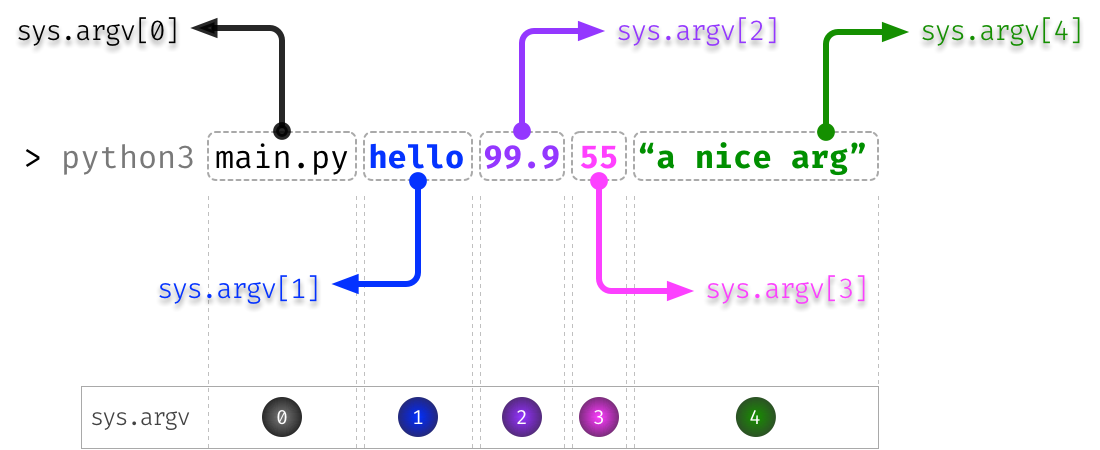
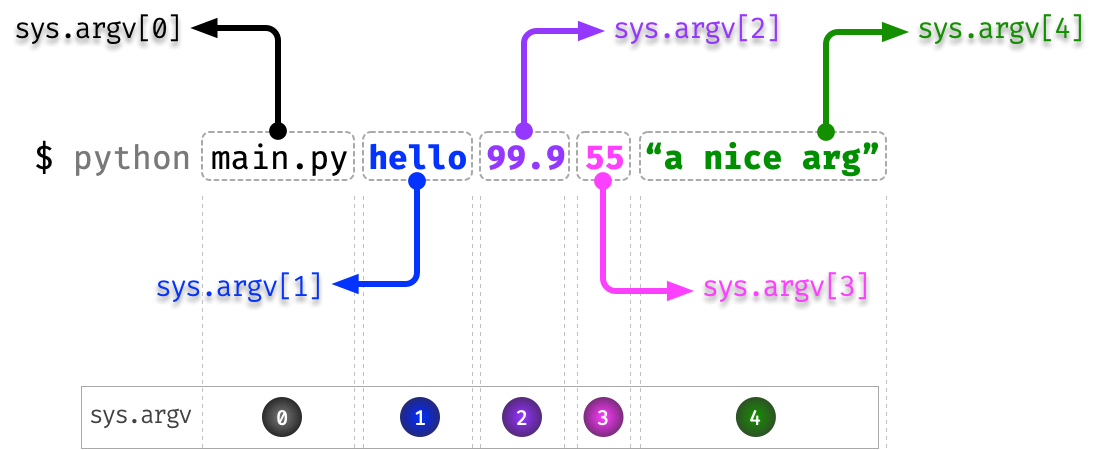
Add minor fixes

diff --git a/core/modularity/modules.rst b/core/modularity/modules.rst
@@ -234,7 +234,7 @@ La estructura que suele tener este *programa principal* es la siguiente::
 
 .. important:: Si queremos ejecutar este fichero ``main.py`` desde línea de comandos, tendríamos que hacer::
 
-        $ python3 main.py
+        $ python main.py
 
 ``if __name__ == '__main__'``
 =============================
@@ -259,7 +259,7 @@ Esta condición permite, en el programa principal, diferenciar qué codigo se la
     * **Línea 9**: esta condición **no** se cumple, ya que estamos importando y la variable especial ``__name__`` no toma ese valor. Con lo cual finaliza la ejecución.
     * *No hay salida por pantalla*.
 
-``$ python3 hello.py``
+``$ python hello.py``
     El código se ejecuta siempre desde la primera instrucción a la última:
 
     * **Línea 1**: se importa el módulo ``blabla``.

diff --git a/core/datastructures/lists.rst b/core/datastructures/lists.rst
@@ -725,11 +725,11 @@ Dado que ``zip()`` produce un *iterador*, si queremos obtener una **lista explí
 
         * Salida: ``101``
 
-        :math:`v1 \times v2 = [4 \cdot 9 + 3 \cdot 2 + 8 \cdot 7 + 1 \cdot 3] = 101`
+        :math:`v1 \cdot v2 = [4 \cdot 9 + 3 \cdot 2 + 8 \cdot 7 + 1 \cdot 3] = 101`
     
     .. only:: html
     
-        |solution| :download:`vect_prod.py <files/scalar_prod.py>`
+        |solution| :download:`scalar_prod.py <files/scalar_prod.py>`
 
 **********************
 Cuidado con las copias
@@ -1019,7 +1019,7 @@ Python nos ofrece, entre otras [#more-math]_, estas tres funciones matemáticas 
 
     La llamada se haría de la siguiente manera::
 
-        $ python3 avg.py 32 56 21 99 12 17
+        $ python avg.py 32 56 21 99 12 17
 
     Plantilla de código para el programa::
 

diff --git a/miniprojects/spotify/index.rst b/miniprojects/spotify/index.rst
@@ -39,8 +39,8 @@ Ejemplos de ejecución
 
 .. code-block:: console
 
-    $ python3 mod_bpm.py 10   # increase songs in 10bpm
-    $ python3 mod_bpm.py -25  # decrease songs in 25bpm
+    $ python mod_bpm.py 10   # increase songs in 10bpm
+    $ python mod_bpm.py -25  # decrease songs in 25bpm
 
 ********************
 Código a implementar

diff --git a/core/devenv/real-context.rst b/core/devenv/real-context.rst
@@ -62,7 +62,7 @@ La manera más sencilla de `crear un entorno virtual`_ es la siguiente:
     :linenos:
 
     $ cd myproject
-    $ python3 -m venv .venv
+    $ python -m venv --prompt myproject .venv
     $ source .venv/bin/activate
 
 - *Línea 1*: Entrar en la carpeta de nuestro proyecto.
